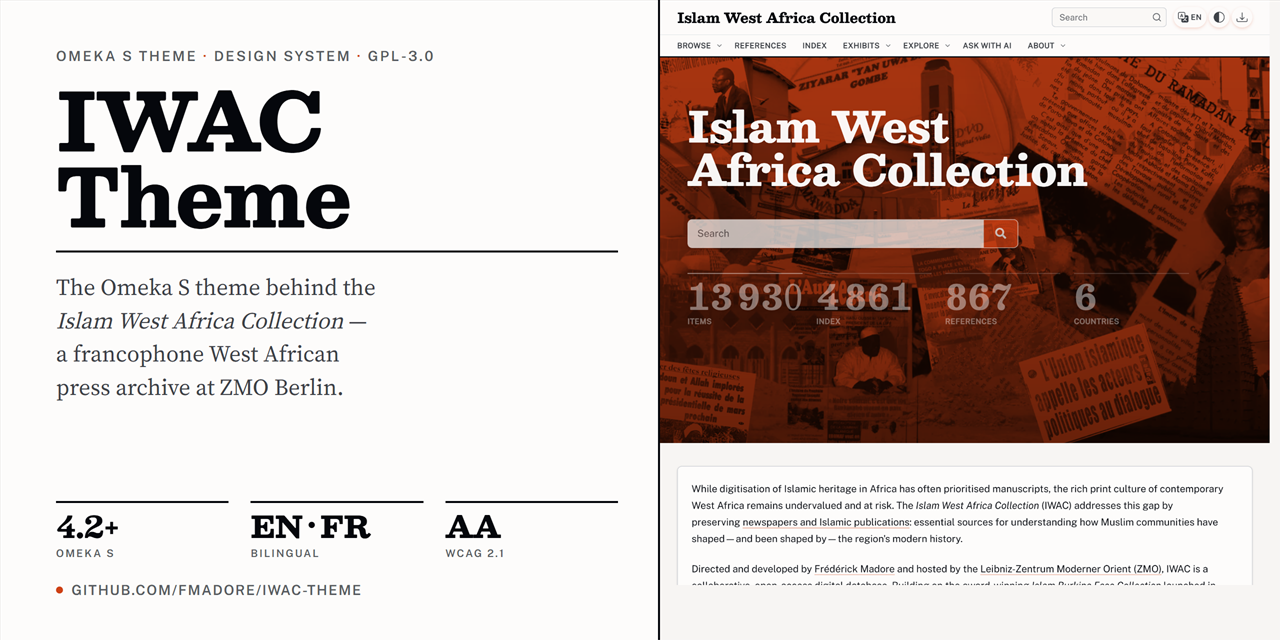
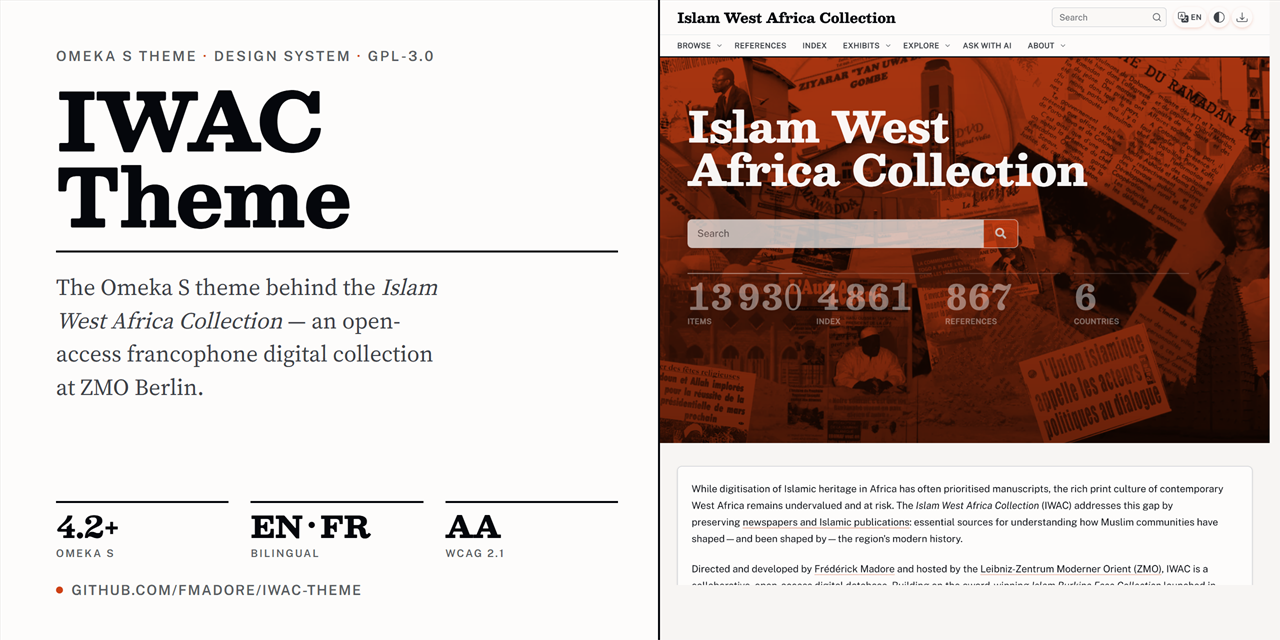
Call IWAC a digital collection, not a database or an archive
The three package descriptions disagreed with each other — composer.json
said "the IWAC database", package.json and theme.ini said "digital
archive" — and none of them used the right term. It is a digital
collection. Fixed in composer.json, package.json, config/theme.ini, the
README lede, CLAUDE.md's opening line, the CITATION.cff abstract and its
"digital archives" keyword, and the social preview card.

Deliberately not touched: "press archive" in docs/DESIGN-PHILOSOPHY.md,
.impeccable.md and CLAUDE.md's register paragraph. That phrase names the
*visual register* the theme borrows from 20th-century newspapers, not what
IWAC is, and the two claims now sit one paragraph apart in CLAUDE.md
without contradicting each other.

Changed region(s): [[0.0312, 0.4688, 0.3438, 0.625], [0.2812, 0.4375, 0.3438, 0.4688]]

diff --git a/README.md b/README.md
@@ -2,7 +2,7 @@
 
 > **Origin**: IWAC Theme started as a fork of the [Freedom theme](https://github.com/omeka-s-themes/freedom) by the [Omeka Team](https://omeka.org) at the Corporation for Digital Scholarship. It has since diverged substantially and is maintained as a standalone theme, but we gratefully acknowledge Freedom as the foundation it grew out of.
 
-This is a customized Omeka S theme for the [Islam West Africa Collection](https://islam.zmo.de/s/westafrica/page/home) digital archive at ZMO Berlin, with modern enhancements including a light/dark mode toggle and multilingual support.
+This is a customized Omeka S theme for the [Islam West Africa Collection](https://islam.zmo.de/s/westafrica/page/home), an open-access digital collection at ZMO Berlin, with modern enhancements including a light/dark mode toggle and multilingual support.
 
 ## Features
 

diff --git a/CLAUDE.md b/CLAUDE.md
@@ -3,7 +3,7 @@
 ## What this is
 
 IWAC-theme — an Omeka S 4.2+ theme (fork of Freedom) for the **Islam West Africa
-Collection**, a francophone West African press archive at ZMO Berlin. PHP templates
+Collection**, a francophone West African digital collection at ZMO Berlin. PHP templates
 (`view/`), Sass on the modern module system (`asset/sass/`), Gulp build, vanilla JS.
 
 Live: [EN](https://islam.zmo.de/s/westafrica/) · [FR](https://islam.zmo.de/s/afrique_ouest/)
